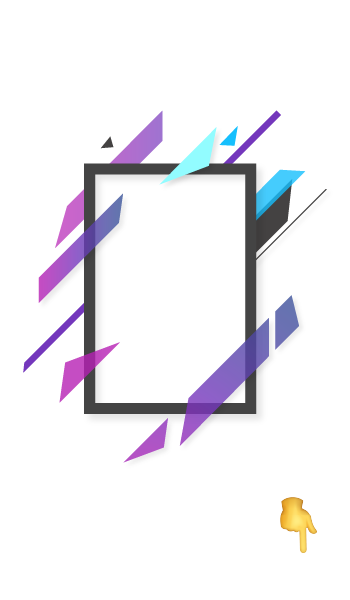
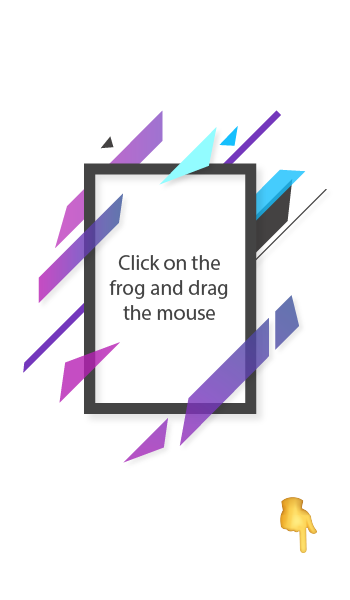
bug fixes

Changed region(s): [[0.3143, 0.42, 0.6571, 0.54]]

diff --git a/Scene_1.html b/Scene_1.html
@@ -28,7 +28,7 @@
 						<button style="display:none" class="centerUI basicBtn" id="Tutorial" onclick="runTutorial();">How to Play</button>
 						<button class="basicBtn bottom" style="display:none" id="PrevImg" onclick="TutImgManager.ChangeImg(-1)">Previous</button>
 						<button class="basicBtn bottom" style="display:none"  id="NextImg" onclick="TutImgManager.ChangeImg(+1)">Next</button>
-						<button style="display:none" id="Retry"  class="bottom basicBtn" onclick="Restart();">Retry</button>
+						<button style="display:none" id="Retry"  class="centerUI basicBtn" onclick="Restart();">Retry</button>
 						<p style="display:none" class="centerUI unselectable2" id="LevelCount" >1</p>
 						<img id="Logo" class="centerUI unselectable2" draggable="false" src="Logo.png">
  					</div>

diff --git a/Styling.css b/Styling.css
@@ -17,13 +17,14 @@ z-index:1;
 }
 .BigScore{
 
-top:60%;
-font-size:30px;
-color:#111;
-
+top:5%;
+width:100%;
+text-align: center;
+font-size:20px;
+color:grey;
 position:absolute;
 z-index:2;
-border:3px solid #111;
+//border:3px solid #111;
 
 }
 .SmallScore{
@@ -40,7 +41,6 @@ width:100px;
 font-size:30px;
 background-color:rgba(0,0,0,0);
 color:#111;
-
 font-family:'Bad Script';
 border:solid 2px #111;
 
@@ -53,7 +53,8 @@ background-color:#111;
 
 }
 #Retry{
-left:50%;
+
+font-size:20px;
 }
 #Play{
 

diff --git a/Coding.js b/Coding.js
@@ -481,13 +481,13 @@ if(isBig)
 
 ScoreText.classList.add("BigScore");
 
-ScoreText.classList.add("centerUI");
+//ScoreText.classList.add("centerUI");
 ScoreText.classList.remove("SmallScore");
 }
 else 
 {
 
-ScoreText.classList.remove("centerUI");
+//ScoreText.classList.remove("centerUI");
 
 ScoreText.classList.remove("BigScore");
 ScoreText.classList.add("SmallScore");
